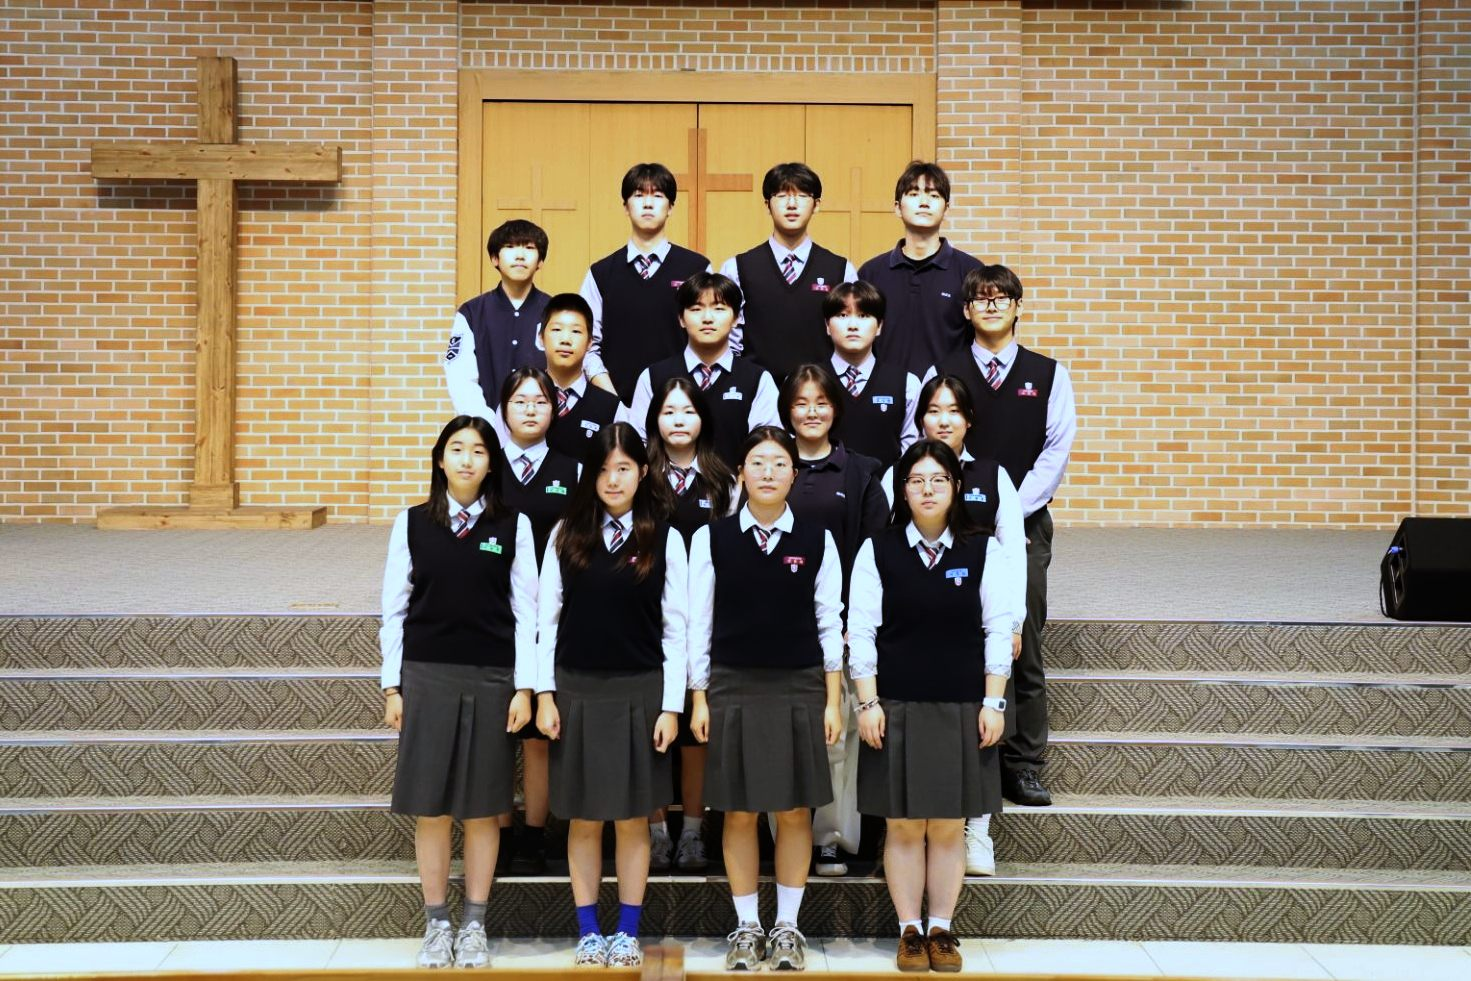
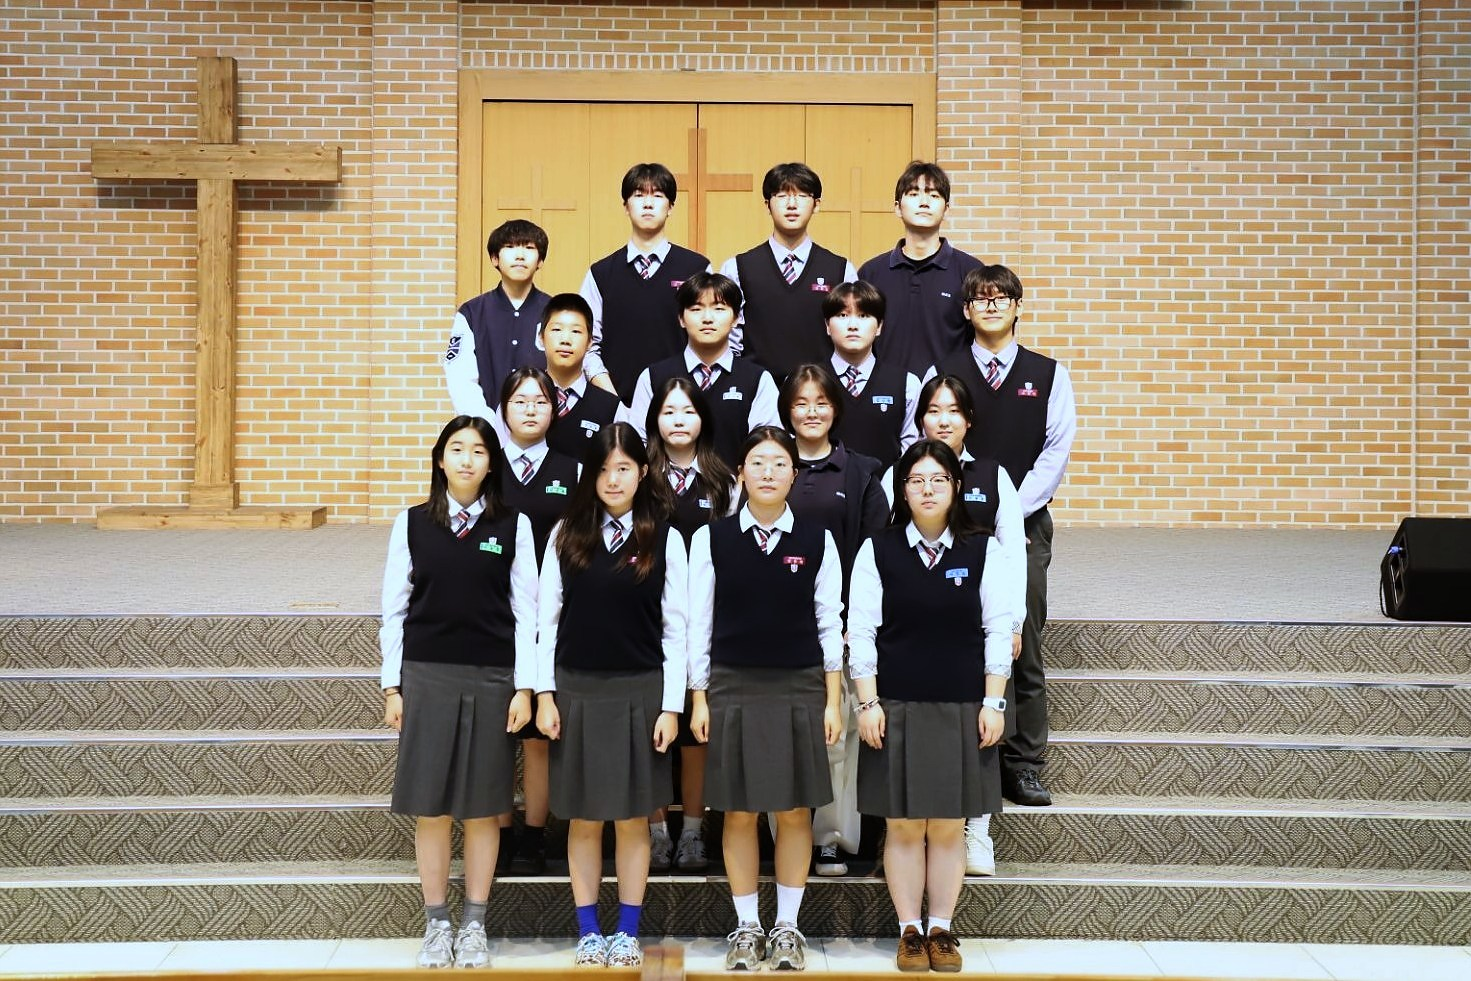
Crew 사진 화질 개선: 원본에서 다시 만듦 (최대 2000px · 품질 90 · 밝기 보정 약하게 · 살짝 선명하게)

diff --git a/pages/crew.html b/pages/crew.html
@@ -74,7 +74,7 @@
         </article>
         <!-- 밴드 · 사진 : images/lineup/band.jpg (바꾸려면 같은 이름으로 덮어쓰기) -->
         <article class="lu-part">
-          <figure class="lu-photo"><img src="../images/lineup/band.jpg" alt="밴드 단체 사진" loading="lazy" width="1600" height="899" /></figure>
+          <figure class="lu-photo"><img src="../images/lineup/band.jpg" alt="밴드 단체 사진" loading="lazy" width="2000" height="1124" /></figure>
           <div class="lu-info">
             <h4 class="lu-name"><span data-i18n="pBand">밴드</span></h4>
             <ul class="lu-names lu-roles"><li>강예빈<small>Main Keys</small></li><li>정예렘<small>Second Keys</small></li><li>이한비<small>Lead Guitar</small></li><li>이원희<small>Rhythm Guitar</small></li><li>조승운<small>Bass Guitar</small></li><li>Kohen<small>Drums</small></li></ul>
@@ -104,7 +104,7 @@
         </article>
         <!-- 합창 · 사진 : images/lineup/choir.jpg (바꾸려면 같은 이름으로 덮어쓰기) -->
         <article class="lu-part lu-wide">
-          <figure class="lu-photo"><img src="../images/lineup/choir.jpg" alt="합창 단체 사진" loading="lazy" width="1600" height="593" /></figure>
+          <figure class="lu-photo"><img src="../images/lineup/choir.jpg" alt="합창 단체 사진" loading="lazy" width="2000" height="741" /></figure>
           <div class="lu-info">
             <h4 class="lu-name"><span data-i18n="pChoir">합창</span></h4>
             <ul class="lu-names"><li>강민서</li><li>강민성</li><li>강민승</li><li>강산</li><li>강윤성</li><li>강은결</li><li>강이안</li><li>강지호</li><li>강현준</li><li>공서현</li><li>공하민</li><li>구동건</li><li>권규연</li><li>권하준</li><li>권희연</li><li>김가빈</li><li>김남준</li><li>김대은</li><li>김래나</li><li>김로이</li><li>김민정</li><li>김범진</li><li>김서현</li><li>김석훈</li><li>김선우</li><li>김선윤</li><li>김세윤</li><li>김소연</li><li>김수현</li><li>김승주</li><li>김시우</li><li>김연우</li><li>김영진</li><li>김영휘</li><li>김유건</li><li>김유안</li><li>김유현</li><li>김은우</li><li>김인후</li><li>김재욱</li><li>김주완</li><li>김주호</li><li>김준서</li><li>김지우</li><li>김지우</li><li>김지후</li><li>김지훈</li><li>김진수</li><li>김찬영</li><li>김태웅</li><li>김하예</li><li>김하준</li><li>김학윤</li><li>김현준</li><li>김형준</li><li>김혜원</li><li>김혜인</li><li>김호연</li><li>김희원</li><li>김희준</li><li>남태양</li><li>노주환</li><li>류대규</li><li>류예준</li><li>류제이</li><li>문주혁</li><li>박규태</li><li>박성빈</li><li>박세훈</li><li>박수완</li><li>박승민</li><li>박은찬</li><li>박제이</li><li>박주영</li><li>박주원</li><li>박주형</li><li>박준영</li><li>박지우</li><li>박태수</li><li>박해리</li><li>백종서</li><li>백지월</li><li>서예성</li><li>서이솔</li><li>석지훈</li><li>손건후</li><li>손은유</li><li>송윤서</li><li>송재현</li><li>송하율</li><li>송현준</li><li>신기창</li><li>신주원</li><li>신지용</li><li>심요담</li><li>안채우</li><li>안현성</li><li>엄정후</li><li>오지훈</li><li>우도현</li><li>유지환</li><li>유혜인</li><li>윤가람</li><li>윤종한</li><li>윤주호</li><li>윤지안</li><li>이기상</li><li>이다솔</li><li>이도원</li><li>이동석</li><li>이보라</li><li>이산</li><li>이상윤</li><li>이서윤</li><li>이서준</li><li>이선율</li><li>이세연</li><li>이에녹</li><li>이예닮</li><li>이용준</li><li>이은휼</li><li>이재이</li><li>이재호</li><li>이정우</li><li>이주원</li><li>이주원</li><li>이준규</li><li>이지유</li><li>이지호</li><li>이찬율</li><li>이하겸</li><li>이하닮</li><li>이하율</li><li>이하준</li><li>이해균</li><li>이현규</li><li>임승민</li><li>임아인</li><li>임예담</li><li>임은찬</li><li>임주왕</li><li>임지성</li><li>임희망</li><li>전준호</li><li>정강우</li><li>정예담</li><li>정예준</li><li>정윤호</li><li>정인성</li><li>정찬호</li><li>정태이</li><li>정하희</li><li>조성진</li><li>조시안</li><li>조윤하</li><li>조은서</li><li>주지원</li><li>주혜원</li><li>지현준</li><li>지혜성</li><li>진하윤</li><li>진현율</li><li>채태윤</li><li>최규민</li><li>최규현</li><li>최라온</li><li>최서영</li><li>최승빈</li><li>최예성</li><li>최예준</li><li>최예현</li><li>최우진</li><li>최은도</li><li>최한결</li><li>하성윤</li><li>하성현</li><li>한수일</li><li>한의민</li><li>한지원</li><li>허태경</li><li>홍성흔</li><li>홍준표</li><li>홍하일</li><li>Amun</li><li>Angelica</li><li>Ariunzaya</li><li>Hanna</li><li>Naysilla</li><li>Steven</li><li>Won Huh</li><li>Yuehan</li></ul>
@@ -119,7 +119,7 @@
         </article>
         <!-- 댄스 · 사진 : images/lineup/dance.jpg (바꾸려면 같은 이름으로 덮어쓰기) -->
         <article class="lu-part">
-          <figure class="lu-photo"><img src="../images/lineup/dance.jpg" alt="댄스 단체 사진" loading="lazy" width="1600" height="1067" /></figure>
+          <figure class="lu-photo"><img src="../images/lineup/dance.jpg" alt="댄스 단체 사진" loading="lazy" width="1674" height="1116" /></figure>
           <div class="lu-info">
             <h4 class="lu-name"><span data-i18n="pDance">댄스</span></h4>
             <ul class="lu-names"><li>Amin</li><li>김은빛</li><li>임승현</li><li>정진수</li><li>황라온</li><li>변채영</li><li>조아연</li><li>박예은</li><li>천지율</li><li>최민교</li><li>최아람</li><li>이주원</li></ul>
@@ -155,7 +155,7 @@
         </article>
         <!-- 메이크업 · 사진 : images/lineup/makeup.jpg (바꾸려면 같은 이름으로 덮어쓰기) -->
         <article class="lu-part">
-          <figure class="lu-photo"><img src="../images/lineup/makeup.jpg" alt="메이크업 단체 사진" loading="lazy" width="1600" height="1065" /></figure>
+          <figure class="lu-photo"><img src="../images/lineup/makeup.jpg" alt="메이크업 단체 사진" loading="lazy" width="2000" height="1331" /></figure>
           <div class="lu-info">
             <h4 class="lu-name"><span data-i18n="pMakeup">메이크업</span></h4>
             <ul class="lu-names"><li>나현지</li><li>윤채은</li><li>Amin</li><li>박이솔</li><li>백유빈</li></ul>
@@ -163,7 +163,7 @@
         </article>
         <!-- 무대진행 · 사진 : images/lineup/stage-crew.jpg (바꾸려면 같은 이름으로 덮어쓰기) -->
         <article class="lu-part">
-          <figure class="lu-photo"><img src="../images/lineup/stage-crew.jpg" alt="무대진행 단체 사진" loading="lazy" width="1600" height="1065" /></figure>
+          <figure class="lu-photo"><img src="../images/lineup/stage-crew.jpg" alt="무대진행 단체 사진" loading="lazy" width="2000" height="1331" /></figure>
           <div class="lu-info">
             <h4 class="lu-name"><span data-i18n="pCrew">무대진행</span></h4>
             <ul class="lu-names"><li>김가현</li><li>박하은</li><li>백서진</li><li>변정후</li><li>송시연</li><li>이서현</li><li>이수린</li><li>이하현</li><li>임우징</li><li>최종민</li></ul>
@@ -175,7 +175,7 @@
       <div class="lu-list">
         <!-- 영상 · 사진 촬영 · 사진 : images/lineup/video.jpg (바꾸려면 같은 이름으로 덮어쓰기) -->
         <article class="lu-part">
-          <figure class="lu-photo"><img src="../images/lineup/video.jpg" alt="영상 · 사진 촬영 단체 사진" loading="lazy" width="1600" height="1065" /></figure>
+          <figure class="lu-photo"><img src="../images/lineup/video.jpg" alt="영상 · 사진 촬영 단체 사진" loading="lazy" width="2000" height="1331" /></figure>
           <div class="lu-info">
             <h4 class="lu-name"><span data-i18n="pVideo">영상 · 사진 촬영</span></h4>
             <ul class="lu-names"><li>이채민</li><li>류시헌</li><li>이이삭</li><li>정승리</li><li>이예반</li><li>최사무엘</li><li>문하은</li></ul>
@@ -183,7 +183,7 @@
         </article>
         <!-- 홍보팀 · 사진 : images/lineup/promo.jpg (바꾸려면 같은 이름으로 덮어쓰기) -->
         <article class="lu-part">
-          <figure class="lu-photo"><img src="../images/lineup/promo.jpg" alt="홍보팀 단체 사진" loading="lazy" width="1600" height="1065" /></figure>
+          <figure class="lu-photo"><img src="../images/lineup/promo.jpg" alt="홍보팀 단체 사진" loading="lazy" width="2000" height="1331" /></figure>
           <div class="lu-info">
             <h4 class="lu-name"><span data-i18n="pPromo">홍보팀</span></h4>
             <ul class="lu-names"><li>김윤지</li><li>박하음</li><li>여정훈</li><li>배혜성</li><li>이시우</li><li>김래인</li><li>김하늬</li><li>이준희</li><li>조규환</li><li>최서윤</li><li>안율희</li></ul>
@@ -191,7 +191,7 @@
         </article>
         <!-- 온라인 홍보 · 사진 : images/lineup/online.jpg (바꾸려면 같은 이름으로 덮어쓰기) -->
         <article class="lu-part">
-          <figure class="lu-photo"><img src="../images/lineup/online.jpg" alt="온라인 홍보 단체 사진" loading="lazy" width="1600" height="1065" /></figure>
+          <figure class="lu-photo"><img src="../images/lineup/online.jpg" alt="온라인 홍보 단체 사진" loading="lazy" width="2000" height="1331" /></figure>
           <div class="lu-info">
             <h4 class="lu-name"><span data-i18n="pOnline">온라인 홍보</span></h4>
             <ul class="lu-names"><li>송민호</li><li>정다희</li><li>김윤지</li><li>이다인</li></ul>
@@ -199,7 +199,7 @@
         </article>
         <!-- 영상 배경 · 자막 · 사진 : images/lineup/visual.jpg (바꾸려면 같은 이름으로 덮어쓰기) -->
         <article class="lu-part">
-          <figure class="lu-photo"><img src="../images/lineup/visual.jpg" alt="영상 배경 · 자막 단체 사진" loading="lazy" width="1600" height="1065" /></figure>
+          <figure class="lu-photo"><img src="../images/lineup/visual.jpg" alt="영상 배경 · 자막 단체 사진" loading="lazy" width="2000" height="1331" /></figure>
           <div class="lu-info">
             <h4 class="lu-name"><span data-i18n="pVisual">영상 배경 · 자막</span></h4>
             <ul class="lu-names"><li>이윤지</li><li>이지수</li><li>조윤서</li><li>우은혜</li></ul>
@@ -211,7 +211,7 @@
       <div class="lu-list">
         <!-- 작품 전시 · 사진 : images/lineup/exhibit.jpg (바꾸려면 같은 이름으로 덮어쓰기) -->
         <article class="lu-part">
-          <figure class="lu-photo"><img src="../images/lineup/exhibit.jpg" alt="작품 전시 단체 사진" loading="lazy" width="1600" height="1065" /></figure>
+          <figure class="lu-photo"><img src="../images/lineup/exhibit.jpg" alt="작품 전시 단체 사진" loading="lazy" width="2000" height="1331" /></figure>
           <div class="lu-info">
             <h4 class="lu-name"><span data-i18n="pExhibit">작품 전시</span></h4>
             <ul class="lu-names"><li>강민지</li><li>김성연</li><li>김주하</li><li>남가빈</li><li>백서진</li><li>송민경</li><li>이한비</li><li>홍유준</li><li>이건희</li><li>한수진</li><li>김나린</li><li>나현지</li><li>류규미</li><li>송효원</li><li>윤채은</li><li>공서현</li><li>김민후</li><li>김서우</li><li>김은빛</li><li>문서연</li><li>박이솔</li><li>박현</li><li>신예은</li><li>조성민</li><li>홍승현</li><li>황라온</li><li>이지아</li><li>김주헌</li><li>정승리</li><li>신라희</li><li>정현수</li><li>메리</li></ul>
